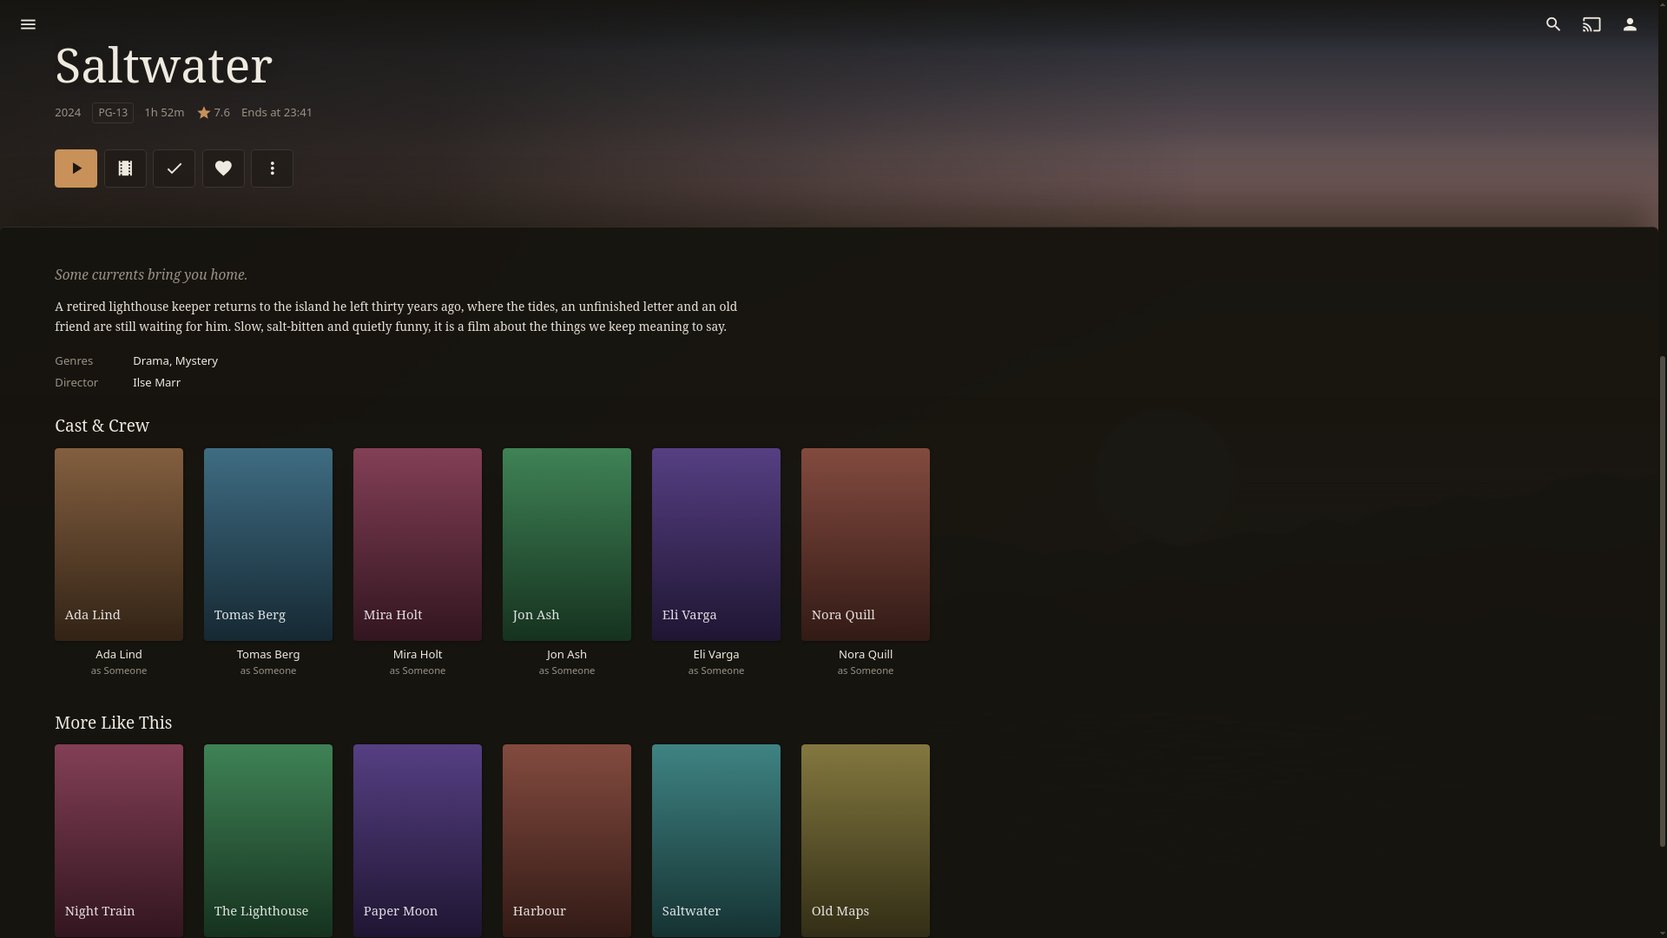
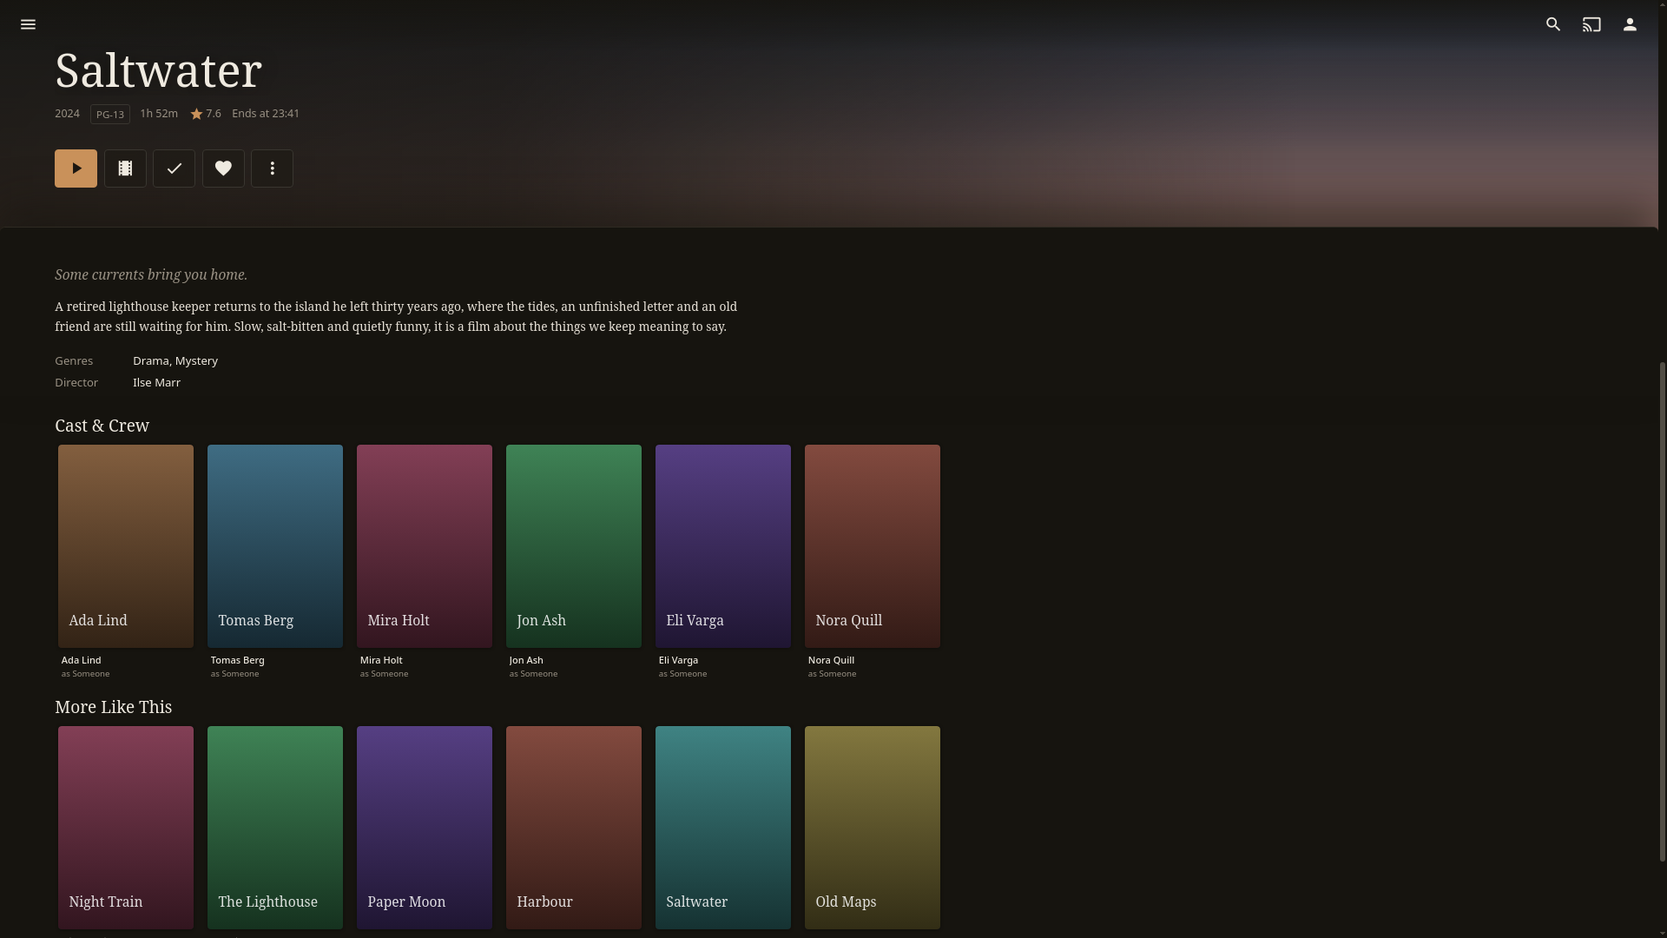
Fix the fullscreen picture in the real app; trim the top bar; quieter hover
Checked live in Jellyfin Desktop (12.4, new layout) via dev/jfdebug.py:

- fullscreen picture was black: Jellyfin's theme paints the page colour on
  .detailPageWrapperContainer; now transparent in fullscreen mode, and the
  mode only switches on when a picture is actually displayed
- top bar: library links and server name hidden (Back + logo stay); on the
  home page the bar disappears and the icons float in a small pill
- titles wrap instead of being cut; the original title is a small muted line;
  season titles lose Jellyfin's 59px indent
- stronger shade behind the text for bright pictures; the sheet is opaque
- hover buttons half size and quiet (only Play is sepia)
- row arrows ‹ › are small chevrons on the section line, everywhere
- compact covers on details pages (cast, seasons, more like this)
- dev/jfdebug.py: drive a live client over the DevTools protocol

Changed region(s): [[0.0312, 0.4583, 0.5625, 1.0], [0.0312, 0.0611, 0.1875, 0.1222]]

diff --git a/sepia-paper.css b/sepia-paper.css
@@ -87,6 +87,9 @@ html, body, button, input, select, textarea, .emby-button, .MuiTypography-root {
   font-family: var(--sp-sans) !important;
 }
 html { color: var(--sp-muted); }
+/* the paper colour lives on <html> alone: body and the app root stay clear so the
+   backdrop layer behind the page can show (MUI's baseline would paint body) */
+body, #reactRoot { background: transparent !important; }
 body { color: var(--sp-ink); }
 ::selection { background: var(--sp-wash); color: var(--sp-ink); }
 * { scrollbar-color: color-mix(in srgb, var(--sp-muted) 45%, transparent) transparent; scrollbar-width: thin; }
@@ -141,6 +144,68 @@ a, .button-link, .emby-button.button-link { color: var(--sp-accent); }
 .emby-tabs-slider { border-bottom: 1px solid var(--sp-hairline); }
 .headerTabs .emby-tabs-slider { border-bottom: none; }
 
+/* ── top bar (Jellyfin's new layout) ───────────────────────────────────────
+   The library links duplicate the home page, so they go. Back and the logo
+   (your way home) stay; on the home page the bar disappears into the page
+   and only a small pill of icons floats at the top right. */
+.MuiAppBar-root .MuiToolbar-root { min-height: 44px !important; }
+.MuiAppBar-root .MuiToolbar-root > .MuiStack-root > a:not(:first-child) { display: none !important; }
+.MuiAppBar-root .MuiToolbar-root > .MuiStack-root > a:first-child {
+  font-size: 0 !important;            /* drop the server name, keep the logo */
+  min-width: 0 !important;
+  padding: 6px !important;
+}
+.MuiAppBar-root .MuiToolbar-root > .MuiStack-root > a:first-child .MuiButton-startIcon { margin: 0 !important; }
+.MuiAppBar-root .MuiIconButton-root { padding: 8px !important; border-radius: var(--sp-radius) !important; }
+.MuiAppBar-root .MuiIconButton-root:hover, .MuiAppBar-root .MuiButton-root:hover { background: var(--sp-hover) !important; }
+
+/* home: no bar, just the icons */
+.layout-desktop:has(#indexPage:not(.hide)) .MuiAppBar-root {
+  background: transparent !important;
+  border-bottom: none !important;
+  pointer-events: none;               /* the empty bar mustn't block clicks on the page */
+}
+.layout-desktop:has(#indexPage:not(.hide)) .MuiAppBar-root .MuiToolbar-root > .MuiStack-root { display: none !important; }
+.layout-desktop:has(#indexPage:not(.hide)) .MuiAppBar-root .MuiToolbar-root > :not(.MuiStack-root) { pointer-events: auto; }
+.layout-desktop:has(#indexPage:not(.hide)) .MuiAppBar-root .MuiToolbar-root > .MuiBox-root:not(:last-child) {
+  flex: 0 0 auto !important;
+  margin-left: auto !important;
+  padding: 0 .2em !important;
+  border-radius: var(--sp-radius-large) 0 0 var(--sp-radius-large);
+}
+.layout-desktop:has(#indexPage:not(.hide)) .MuiAppBar-root .MuiToolbar-root > .MuiBox-root {
+  align-self: flex-start;
+  display: flex !important;
+  align-items: center;
+  box-sizing: border-box;
+  height: 40px;
+  background: rgb(var(--sp-surface-rgb) / .85);
+  -webkit-backdrop-filter: blur(8px);
+  backdrop-filter: blur(8px);
+  border-top: 1px solid var(--sp-hairline);
+  border-bottom: 1px solid var(--sp-hairline);
+  margin-top: 6px;
+}
+.layout-desktop:has(#indexPage:not(.hide)) .MuiAppBar-root .MuiToolbar-root > .MuiBox-root:not(:last-child) { border-left: 1px solid var(--sp-hairline); }
+.layout-desktop:has(#indexPage:not(.hide)) .MuiAppBar-root .MuiToolbar-root > .MuiBox-root:last-child {
+  border-right: 1px solid var(--sp-hairline);
+  border-radius: 0 var(--sp-radius-large) var(--sp-radius-large) 0;
+  padding: 0 6px 0 2px !important;
+  width: auto !important;
+}
+.layout-desktop:has(#indexPage:not(.hide)) .MuiAppBar-root .MuiToolbar-root > .MuiBox-root:last-child .MuiIconButton-root { padding: 0 !important; }
+.layout-desktop:has(#indexPage:not(.hide)) .MuiAppBar-root .MuiAvatar-root { width: 30px !important; height: 30px !important; }
+/* pull the page up into the space the bar used to take */
+.layout-desktop #indexPage { margin-top: -38px !important; }
+
+/* details with a picture: the bar floats over it */
+.layout-desktop:has(.backdropImage.displayingBackdropImage):has(#itemDetailPage:not(.hide)) .MuiAppBar-root {
+  background: rgb(var(--sp-bg-rgb) / .55) !important;
+  -webkit-backdrop-filter: blur(12px);
+  backdrop-filter: blur(12px);
+  border-bottom: none !important;
+}
+
 /* ── side drawer ───────────────────────────────────────────────────────── */
 .mainDrawer, .MuiDrawer-paper {
   background-color: var(--sp-bg) !important;
@@ -186,9 +251,20 @@ a, .button-link, .emby-button.button-link { color: var(--sp-accent); }
 .cardText { color: var(--sp-ink); }
 .cardText-secondary, .cardText.cardText-secondary, .textActionButton.cardText-secondary { color: var(--sp-muted) !important; }
 .cardOverlayContainer { background: rgb(var(--sp-bg-rgb) / .5) !important; }
+.cardOverlayButton { padding: .28em !important; font-size: .78em !important; margin: 0 .08em !important; }
+.cardOverlayButton:not(.cardOverlayFab-primary) { background: rgb(var(--sp-bg-rgb) / .72) !important; color: var(--sp-ink) !important; border-radius: 50% !important; }
+.cardOverlayButton:not(.cardOverlayFab-primary):hover { background: rgb(var(--sp-bg-rgb) / .9) !important; color: var(--sp-accent) !important; }
+.cardOverlayButton .cardOverlayButtonIcon, .cardOverlayButtonIcon { font-size: 1.45em !important; }
+.cardOverlayButton-br { bottom: .2em !important; right: .2em !important; }
+.cardOverlayFab-primary {
+  font-size: .8em !important;
+  padding: .45em !important;
+  border-radius: var(--sp-radius) !important;
+}
+.cardOverlayFab-primary .cardOverlayButtonIcon { font-size: 1.8em !important; }
 .cardOverlayButton { color: var(--sp-ink) !important; background: transparent !important; }
 .cardOverlayButton:hover { background: var(--sp-hover) !important; }
-.cardOverlayButton-br .material-icons, .cardOverlayFab-primary {
+.cardOverlayFab-primary {
   background: var(--sp-accent) !important;
   color: var(--sp-on-accent) !important;
 }
@@ -260,12 +336,49 @@ a, .button-link, .emby-button.button-link { color: var(--sp-accent); }
 .homeSectionsContainer .padded-top-focusscale { padding-top: .2em !important; }
 .homeSectionsContainer .padded-bottom-focusscale { padding-bottom: .2em !important; }
 
+/* the ‹ › row arrows: small chevrons sitting on the label line, at its right end */
+.homeSectionsContainer .emby-scrollbuttons {
+  top: .9em !important;
+  right: 3.3% !important;
+  padding: 0 !important;
+  height: 1.55em;
+  display: flex !important;
+  align-items: center;
+  gap: .1em;
+  background: transparent !important;
+}
+.emby-scrollbuttons { background: transparent !important; }
+.emby-scrollbuttons-button,
+.homeSectionsContainer .emby-scrollbuttons-button {
+  width: 1.55em !important;
+  height: 1.55em !important;
+  padding: 0 !important;
+  margin: 0 !important;
+  font-size: .9em !important;
+  color: var(--sp-muted) !important;
+  background: transparent !important;
+  border-radius: 3px !important;
+  display: inline-flex !important;
+  align-items: center;
+  justify-content: center;
+}
+.emby-scrollbuttons-button.hide { display: none !important; }
+.emby-scrollbuttons-button:hover { color: var(--sp-accent) !important; background: var(--sp-hover) !important; }
+.emby-scrollbuttons-button .material-icons { font-size: 1.25em !important; }
+
 /* small covers */
 .homeSectionsContainer .cardBox { margin: .3em !important; }
 .layout-desktop .homeSectionsContainer .overflowPortraitCard,
 .layout-desktop .homeSectionsContainer .overflowSquareCard { width: clamp(7em, 7vw, 10.5em) !important; }
 .layout-desktop .homeSectionsContainer .overflowBackdropCard { width: clamp(11em, 11.6vw, 17em) !important; }
 .layout-desktop .homeSectionsContainer .overflowSmallBackdropCard { width: clamp(8em, 8vw, 12em) !important; }
+.layout-desktop .itemDetailPage .overflowPortraitCard,
+.layout-desktop .itemDetailPage .overflowSquareCard { width: clamp(7em, 7vw, 10.5em) !important; }
+.layout-desktop .itemDetailPage .overflowBackdropCard { width: clamp(11em, 11.6vw, 17em) !important; }
+.itemDetailPage .cardBox { margin: .3em !important; }
+.itemDetailPage .cardText, .itemDetailPage .cardTextCentered { text-align: left !important; padding-left: 0 !important; }
+.itemDetailPage .cardText-first { font-size: .84em; font-weight: 500; }
+.itemDetailPage .cardText-secondary { font-size: .74em; }
 .homeSectionsContainer .cardFooter { padding: .35em .1em .1em !important; }
 .homeSectionsContainer .cardText,
 .homeSectionsContainer .cardTextCentered { text-align: left !important; padding-left: 0 !important; padding-right: 0 !important; }
@@ -417,6 +530,27 @@ a, .button-link, .emby-button.button-link { color: var(--sp-accent); }
 
 /* ── item details ──────────────────────────────────────────────────────── */
 .itemDetailPage .itemName { color: var(--sp-ink) !important; }
+.itemDetailPage .nameContainer .itemName {
+  padding-left: 0 !important;
+  padding-right: 0 !important;
+  white-space: normal !important;
+  overflow: hidden !important;
+  text-overflow: clip !important;
+  display: -webkit-box !important;
+  -webkit-box-orient: vertical;
+  -webkit-line-clamp: 2;
+  line-height: 1.12 !important;
+}
+.itemDetailPage .nameContainer .itemName.originalTitle {
+  font-family: var(--sp-sans) !important;
+  font-size: 1rem !important;
+  font-weight: 400 !important;
+  color: var(--sp-muted) !important;
+  -webkit-line-clamp: 1;
+  margin: 0 0 .5em !important;
+  text-shadow: none !important;
+}
+.itemDetailPage .itemMiscInfo { font-size: .95rem !important; }
 .itemDetailPage h1.itemName, .itemDetailPage .parentName + .itemName { line-height: 1.12; }
 .itemDetailPage .parentName {
   font-family: var(--sp-sans) !important;
@@ -486,31 +620,32 @@ a, .button-link, .emby-button.button-link { color: var(--sp-accent); }
   filter: sepia(var(--sp-backdrop-tone)) saturate(calc(1 - var(--sp-backdrop-tone) * .4));
 }
 .layout-desktop:has(#itemDetailPage:not(.hide)) .backdropImage { background-position: center 20% !important; }
-.layout-desktop:has(#itemDetailPage:not(.hide)) .backgroundContainer.withBackdrop {
+.layout-desktop:has(#itemDetailPage:not(.hide)):has(.backdropImage.displayingBackdropImage) .backgroundContainer {
   background-color: transparent !important;
   background-image:
-    linear-gradient(90deg, rgb(var(--sp-bg-rgb) / calc(.94 * var(--sp-backdrop-dim))) 0%,
-                    rgb(var(--sp-bg-rgb) / calc(.78 * var(--sp-backdrop-dim))) 26%,
-                    rgb(var(--sp-bg-rgb) / calc(.3 * var(--sp-backdrop-dim))) 52%, rgb(var(--sp-bg-rgb) / 0) 72%),
+    linear-gradient(90deg, rgb(var(--sp-bg-rgb) / calc(.97 * var(--sp-backdrop-dim))) 0%,
+                    rgb(var(--sp-bg-rgb) / calc(.88 * var(--sp-backdrop-dim))) 30%,
+                    rgb(var(--sp-bg-rgb) / calc(.45 * var(--sp-backdrop-dim))) 56%, rgb(var(--sp-bg-rgb) / 0) 78%),
     linear-gradient(0deg, rgb(var(--sp-bg-rgb) / calc(.92 * var(--sp-backdrop-dim))) 0%,
                     rgb(var(--sp-bg-rgb) / calc(.35 * var(--sp-backdrop-dim))) 28%, rgb(var(--sp-bg-rgb) / 0) 50%),
     linear-gradient(180deg, rgb(var(--sp-bg-rgb) / .5) 0%, rgb(var(--sp-bg-rgb) / 0) 16%) !important;
 }
 /* the page's own (empty on desktop) banner and the poster step aside: the picture is the cover */
-.layout-desktop:has(.backgroundContainer.withBackdrop) .itemDetailPage > .itemBackdrop { display: none !important; }
-.layout-desktop:has(.backgroundContainer.withBackdrop) .itemDetailPage .detailImageContainer { display: none !important; }
-.layout-desktop:has(.backgroundContainer.withBackdrop) .itemDetailPage .detailPageWrapperContainer {
+.layout-desktop:has(.backdropImage.displayingBackdropImage) .itemDetailPage > .itemBackdrop { display: none !important; }
+.layout-desktop:has(.backdropImage.displayingBackdropImage) .itemDetailPage .detailImageContainer { display: none !important; }
+.layout-desktop:has(.backdropImage.displayingBackdropImage) .itemDetailPage .detailPageWrapperContainer {
   position: relative;
   z-index: 1;
+  background: transparent !important;   /* Jellyfin paints the page colour here, over the picture */
   margin-top: 0 !important;
   min-height: 0 !important;
 }
 /* first screen: title, facts and buttons sit low on the left, over the picture */
-.layout-desktop:has(.backgroundContainer.withBackdrop) .itemDetailPage .detailPagePrimaryContainer {
+.layout-desktop:has(.backdropImage.displayingBackdropImage) .itemDetailPage .detailPagePrimaryContainer {
   display: block !important;
   background: transparent !important;
 }
-.layout-desktop:has(.backgroundContainer.withBackdrop) .itemDetailPage .detailRibbon {
+.layout-desktop:has(.backdropImage.displayingBackdropImage) .itemDetailPage .detailRibbon {
   display: flex !important;
   flex-direction: column;
   justify-content: flex-end;
@@ -524,39 +659,39 @@ a, .button-link, .emby-button.button-link { color: var(--sp-accent); }
   max-width: min(56em, 64vw);
   background: transparent !important;
 }
-.layout-desktop:has(.backgroundContainer.withBackdrop) .itemDetailPage .infoWrapper { width: 100%; flex: 0 0 auto !important; }
-.layout-desktop:has(.backgroundContainer.withBackdrop) .itemDetailPage .nameContainer { text-align: left !important; justify-content: flex-start !important; }
-.layout-desktop:has(.backgroundContainer.withBackdrop) .itemDetailPage h1.itemName,
-.layout-desktop:has(.backgroundContainer.withBackdrop) .itemDetailPage .nameContainer .itemName {
-  font-size: clamp(2.2rem, 3.6vw, 4.2rem) !important;
-  margin: .1em 0 .25em !important;
+.layout-desktop:has(.backdropImage.displayingBackdropImage) .itemDetailPage .infoWrapper { width: 100%; flex: 0 0 auto !important; }
+.layout-desktop:has(.backdropImage.displayingBackdropImage) .itemDetailPage .nameContainer { text-align: left !important; justify-content: flex-start !important; }
+.layout-desktop:has(.backdropImage.displayingBackdropImage) .itemDetailPage h1.itemName,
+.layout-desktop:has(.backdropImage.displayingBackdropImage) .itemDetailPage .nameContainer .itemName:not(.originalTitle) {
+  font-size: clamp(2.2rem, 3.4vw, 4rem) !important;
+  margin: .1em 0 .2em !important;
   text-shadow: 0 1px 18px rgb(var(--sp-bg-rgb) / .6);
 }
-.layout-desktop:has(.backgroundContainer.withBackdrop) .itemDetailPage .itemMiscInfo { color: color-mix(in srgb, var(--sp-ink) 72%, var(--sp-muted)); justify-content: flex-start !important; }
-.layout-desktop:has(.backgroundContainer.withBackdrop) .itemDetailPage .mainDetailButtons { margin: 0 !important; justify-content: flex-start !important; }
+.layout-desktop:has(.backdropImage.displayingBackdropImage) .itemDetailPage .itemMiscInfo { color: color-mix(in srgb, var(--sp-ink) 72%, var(--sp-muted)); justify-content: flex-start !important; }
+.layout-desktop:has(.backdropImage.displayingBackdropImage) .itemDetailPage .mainDetailButtons { margin: 0 !important; justify-content: flex-start !important; }
 
 /* then a sheet of paper slides up over the picture: the overview is its first paragraph */
-.layout-desktop:has(.backgroundContainer.withBackdrop) .itemDetailPage .detailPagePrimaryContent {
+.layout-desktop:has(.backdropImage.displayingBackdropImage) .itemDetailPage .detailPagePrimaryContent {
   position: relative;
-  background: rgb(var(--sp-bg-rgb) / .985) !important;
+  background: var(--sp-bg) !important;
   border-top: 1px solid var(--sp-hairline);
   border-radius: var(--sp-radius-large) var(--sp-radius-large) 0 0;
   box-shadow: 0 -24px 48px rgb(var(--sp-bg-rgb) / .55);
   padding: 2.2em 3.3vw 0 !important;
   margin: 0 !important;
 }
-.layout-desktop:has(.backgroundContainer.withBackdrop) .itemDetailPage .detailPagePrimaryContent .detailSection { max-width: 62em; margin: 0 !important; }
-.layout-desktop:has(.backgroundContainer.withBackdrop) .itemDetailPage .detailPageSecondaryContainer {
-  background: rgb(var(--sp-bg-rgb) / .985) !important;
+.layout-desktop:has(.backdropImage.displayingBackdropImage) .itemDetailPage .detailPagePrimaryContent .detailSection { max-width: 62em; margin: 0 !important; }
+.layout-desktop:has(.backdropImage.displayingBackdropImage) .itemDetailPage .detailPageSecondaryContainer {
+  background: var(--sp-bg) !important;
   padding: 1em 3.3vw 3em !important;
   margin: 0 !important;
   min-height: 60vh;
 }
-.layout-desktop:has(.backgroundContainer.withBackdrop) .itemDetailPage .detailPageSecondaryContainer .detailPageContent { padding: 0 !important; }
+.layout-desktop:has(.backdropImage.displayingBackdropImage) .itemDetailPage .detailPageSecondaryContainer .detailPageContent { padding: 0 !important; }
 .layout-desktop .detailLogo { display: none !important; }
 
 /* without backdrops: a short band instead of an empty half screen, and a real title */
-.layout-desktop:not(:has(.backgroundContainer.withBackdrop)) .itemDetailPage > .itemBackdrop { height: 24vh !important; }
+.layout-desktop:not(:has(.backdropImage.displayingBackdropImage)) .itemDetailPage > .itemBackdrop { height: 24vh !important; }
 .layout-desktop .itemDetailPage .nameContainer h1.itemName,
 .layout-desktop .itemDetailPage .nameContainer .parentName + .itemName,
 .layout-desktop .itemDetailPage .nameContainer h3.itemName { font-size: 2em !important; }

diff --git a/dev/jfdebug.py b/dev/jfdebug.py
@@ -1,0 +1,88 @@
+#!/usr/bin/env python3
+"""Drive a running Jellyfin web client over the Chrome DevTools protocol.
+
+Start the client with remote debugging, e.g. Jellyfin Desktop (Flatpak):
+  flatpak run --env=QTWEBENGINE_REMOTE_DEBUGGING=127.0.0.1:9222 org.jellyfin.JellyfinDesktop
+or Chromium with --remote-debugging-port=9222.
+
+  jfdebug.py eval  "<js>"         print the result of an expression
+  jfdebug.py go    "#/home"       navigate inside the app (hash route)
+  jfdebug.py shot  out.png        screenshot of the page
+  jfdebug.py css   file.css       load this local stylesheet in place of the server's
+                                  Custom CSS (for testing before publishing)
+  jfdebug.py size  1920 1080      emulate a viewport size (0 0 to reset)
+"""
+import base64, json, sys, time, urllib.request
+import websocket
+
+PORT = 9222
+
+
+def target():
+    tabs = json.load(urllib.request.urlopen(f"http://127.0.0.1:{PORT}/json/list"))
+    pages = [t for t in tabs if t["type"] == "page"]
+    web = [t for t in pages if "/web/" in t["url"] or "web-client" not in t["url"]]
+    return (web or pages)[0]
+
+
+class CDP:
+    def __init__(self):
+        self.ws = websocket.create_connection(target()["webSocketDebuggerUrl"], timeout=60,
+                                              suppress_origin=True)
+        self.n = 0
+
+    def call(self, method, **params):
+        self.n += 1
+        self.ws.send(json.dumps({"id": self.n, "method": method, "params": params}))
+        while True:
+            msg = json.loads(self.ws.recv())
+            if msg.get("id") == self.n:
+                if "error" in msg:
+                    raise RuntimeError(msg["error"])
+                return msg.get("result", {})
+
+    def eval(self, expr):
+        r = self.call("Runtime.evaluate", expression=expr, returnByValue=True, awaitPromise=True, replMode=True)
+        if r.get("exceptionDetails"):
+            raise RuntimeError(r["exceptionDetails"].get("exception", {}).get("description", r["exceptionDetails"]))
+        return r.get("result", {}).get("value")
+
+
+def main():
+    cmd, *args = sys.argv[1:]
+    c = CDP()
+    if cmd == "eval":
+        v = c.eval(args[0])
+        print(v if isinstance(v, str) else json.dumps(v, indent=1))
+    elif cmd == "go":
+        c.eval(f"location.hash = {json.dumps(args[0].lstrip('#'))}")
+        time.sleep(float(args[1]) if len(args) > 1 else 2.5)
+    elif cmd == "shot":
+        data = c.call("Page.captureScreenshot", format="png")["data"]
+        open(args[0], "wb").write(base64.b64decode(data))
+        print(args[0])
+    elif cmd == "css":
+        css = open(args[0]).read()
+        c.eval("""(css => {
+            let s = document.getElementById('sp-dev');
+            if (!s) { s = document.createElement('style'); s.id = 'sp-dev'; document.head.appendChild(s); }
+            s.textContent = css;
+            // switch off the server copy so only the local file applies
+            document.querySelectorAll('style, link[rel=stylesheet]').forEach(e => {
+              if (e.id !== 'sp-dev' && (e.textContent || '').includes('sepia-paper')) e.disabled = true;
+            });
+            return 'ok';
+        })(%s)""" % json.dumps(css))
+        print("local css applied")
+    elif cmd == "size":
+        w, h = int(args[0]), int(args[1])
+        if w:
+            c.call("Emulation.setDeviceMetricsOverride", width=w, height=h, deviceScaleFactor=1, mobile=False)
+        else:
+            c.call("Emulation.clearDeviceMetricsOverride")
+    else:
+        sys.exit(__doc__)
+
+
+if __name__ == "__main__":
+    main()

diff --git a/README.md b/README.md
@@ -53,7 +53,8 @@ Put any of these **under** the `@import` line to change them:
 | **Movie & series pages** | A fullscreen picture with a soft shade from the left and bottom, a large serif title and quiet square buttons with a sepia Play. Below that, a paper sheet holds the overview, cast and episodes |
 | **Home page** | Compact, like a reading-app library: a serif masthead, small letterspaced section labels over hairlines, dense rows of small covers with titles set flush left, and a thin sepia progress line. "My Media" shown as buttons becomes a row of small chips |
 | **Library grids** | Denser: 12 posters per row on a 1080p screen instead of 9, titles flush left |
-| **Cards** | Flat covers with small corners, no shadow; a sepia hairline on hover, a sepia outline when focused with a remote or keyboard |
+| **Cards** | Flat covers with small corners, no shadow; a sepia hairline on hover and small, quiet hover buttons (only Play is sepia). The row arrows ‹ › are small chevrons on the section line |
+| **Top bar** | The library links (server name, Favorites, Movies, Series) are gone because the home page already has them. Back and the logo (home) stay. On the home page the bar disappears and only a small pill of icons floats at the top right |
 | **Header & menu** | Flat paper with a hairline. Tabs are muted, and the active one gets a sepia underline |
 | **Forms & dialogs** | Paper fields with a hairline that turns sepia when focused, a sepia primary button, and surfaces that use hairlines instead of heavy shadows |
 
@@ -73,9 +74,16 @@ recent Jellyfin Desktop).
 
 ## Development
 
-`sepia-paper.css` is the whole theme. `dev/preview.py` renders it offscreen on mock pages
-built from Jellyfin's own templates and stylesheets. It needs `python3-pyside6` and a local
-`jellyfin-web` install:
+`sepia-paper.css` is the whole theme.
+
+`dev/jfdebug.py` drives a real Jellyfin client over the Chrome DevTools protocol: run JavaScript,
+take screenshots, navigate, and load your local `sepia-paper.css` in place of the published one,
+all without publishing anything. Start Jellyfin Desktop (Flatpak) with
+`flatpak run --env=QTWEBENGINE_REMOTE_DEBUGGING=127.0.0.1:9222 org.jellyfin.JellyfinDesktop`.
+It needs `python-websocket-client`.
+
+`dev/preview.py` renders the theme offscreen on mock pages built from Jellyfin's own templates
+and stylesheets. It needs `python3-pyside6` and a local `jellyfin-web` install:
 
 ```sh
 python3 dev/make_backdrop.py /tmp/backdrop.jpg
